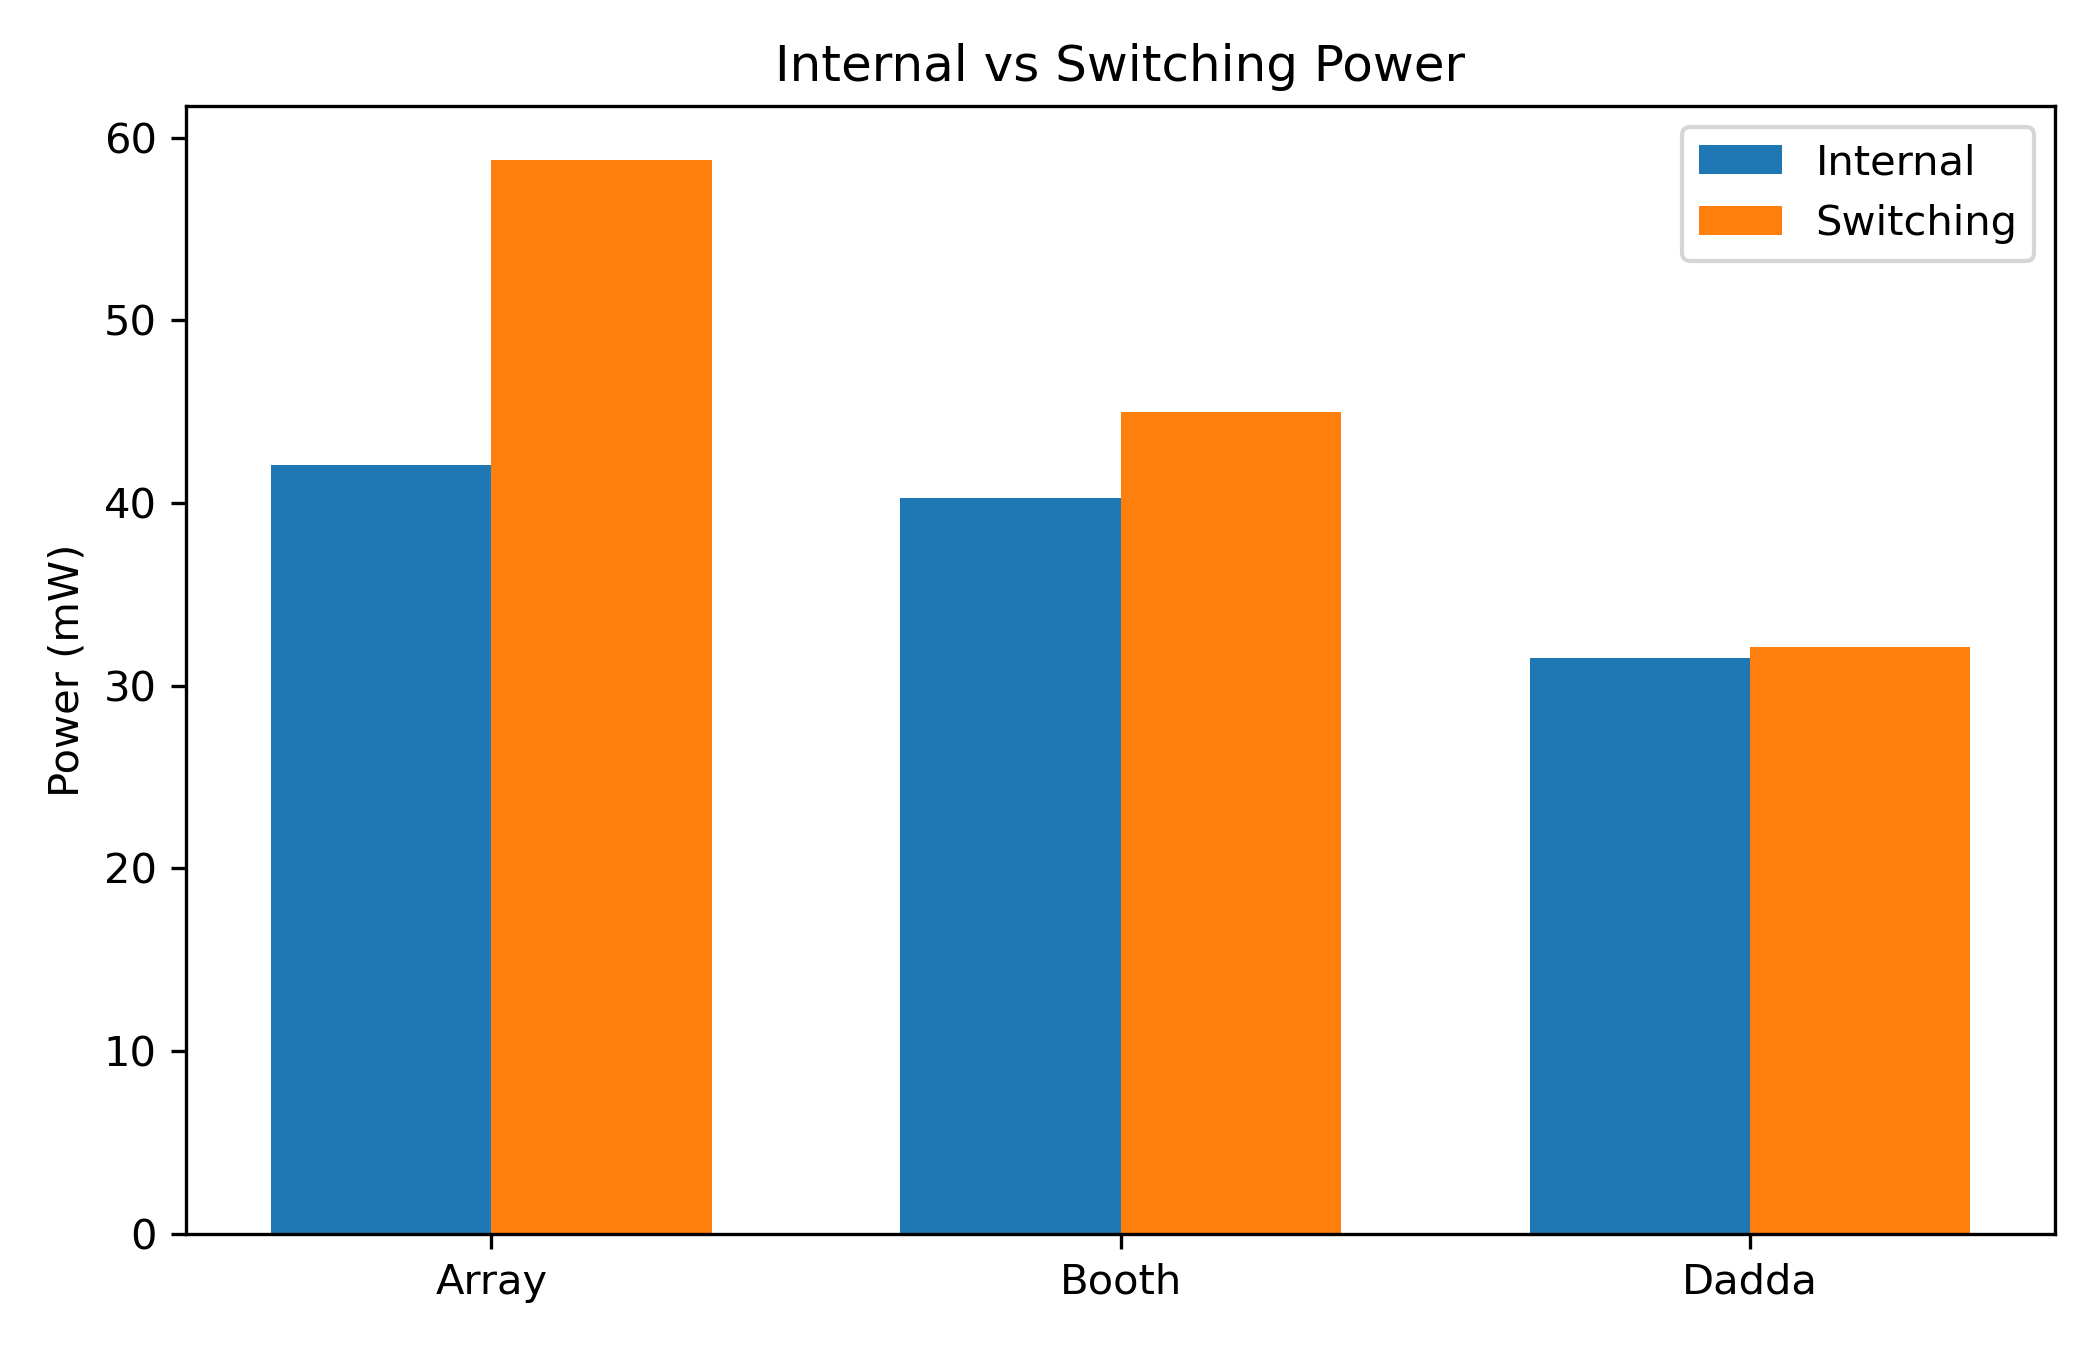
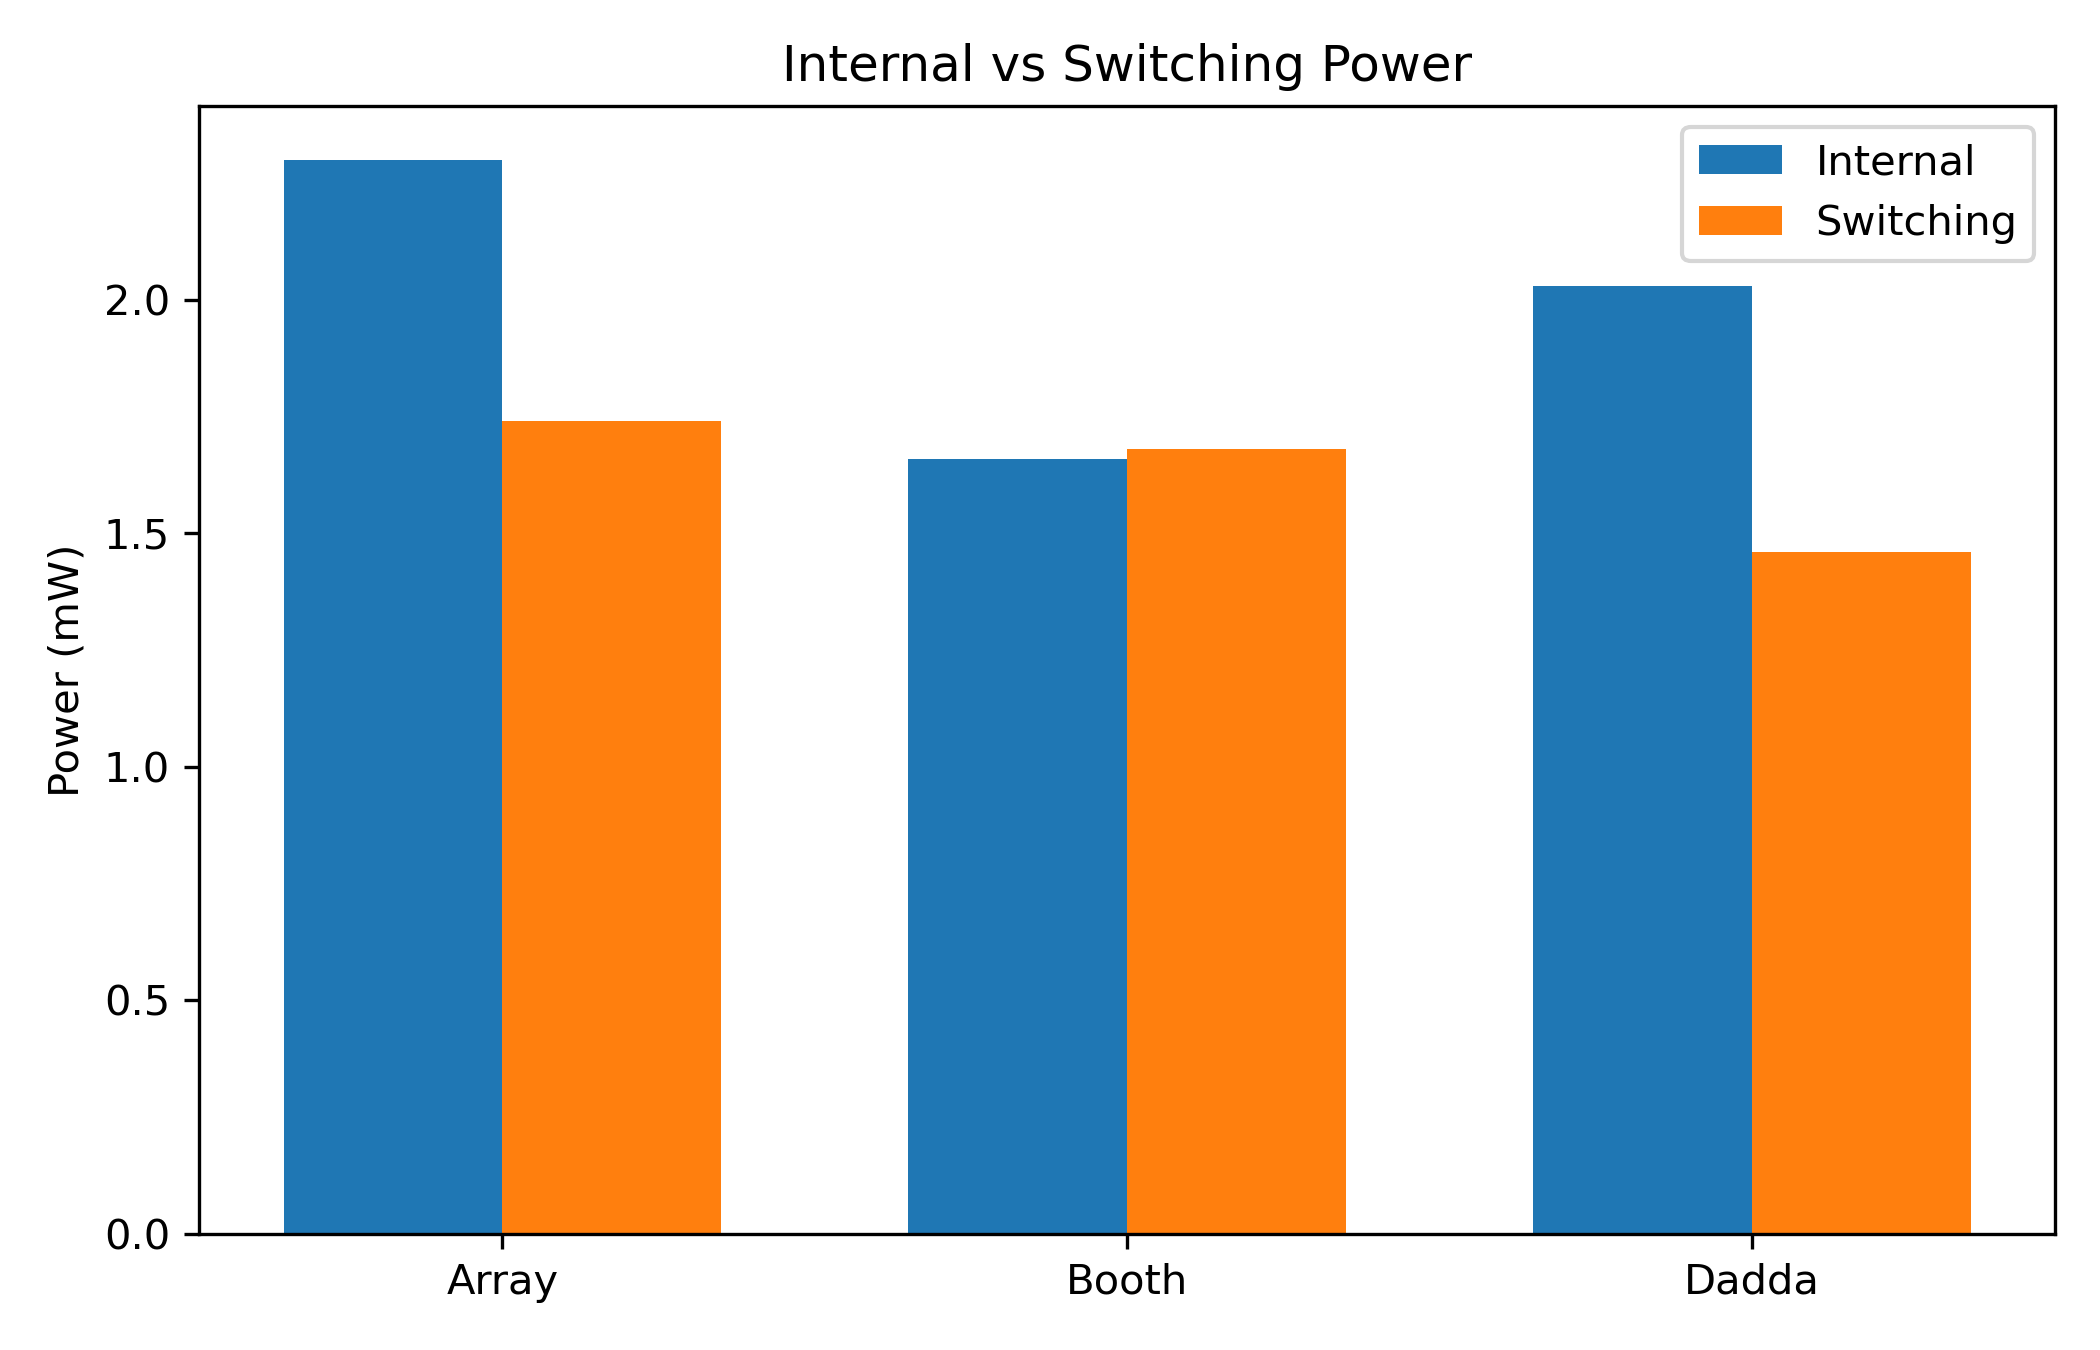
Regenerate power estimates from final mapped netlists

diff --git a/README.md b/README.md
@@ -1,46 +1,46 @@
 # 64-bit Multiplier Architecture Comparison
 
-This project compares three 64-bit multiplier architectures using an open-source ASIC-style evaluation flow:
+This repository compares three 64-bit multiplier architectures using an open-source ASIC-style flow:
 
 - Array multiplier
 - Radix-4 Booth multiplier
 - Dadda multiplier
 
-The goal is to compare area, timing, and power trade-offs across multiplier architectures using Verilog/SystemVerilog RTL, Yosys synthesis, SKY130 Liberty mapping, OpenSTA timing analysis, and activity-based power reporting.
+The goal is to compare architectural trade-offs in mapped area, cell count, timing, and post-synthesis power under the same SKY130-based evaluation flow.
 
 ## Final Evidence-Backed PPA Results
 
-| Architecture | Mapped Cells | Mapped Area | Critical Path Delay (ns) | Slack @ 10 ns (ns) | Total Power (mW) |
-|---|---:|---:|---:|---:|---:|
-| Array | 14,670 | 170,235.769600 | 89.8478 | -79.8478 | 101.0 |
-| Radix-4 Booth | 14,029 | 122,304.800000 | 62.6285 | -52.6285 | 85.3 |
-| Dadda | 12,744 | 149,170.566400 | 71.4395 | -61.4395 | 63.6 |
+| Architecture | Mapped Cells | Mapped Area | Critical Path Delay (ns) | Estimated Fmax (MHz) | Slack @ 10 ns (ns) | Total Power (mW) |
+|---|---:|---:|---:|---:|---:|---:|
+| Array | 14,670 | 170,235.769600 | 89.8478 | 11.13 | -79.8478 | 4.03 |
+| Radix-4 Booth | 14,029 | 122,304.800000 | 62.6285 | 15.97 | -52.6285 | 3.34 |
+| Dadda | 12,744 | 149,170.566400 | 71.4395 | 14.00 | -61.4395 | 3.49 |
 
-## Key Findings
+## Key Observations
 
-The Radix-4 Booth multiplier achieved the shortest reported critical path delay and the smallest mapped area among the three evaluated designs.
+- The Radix-4 Booth multiplier achieved the smallest mapped area, shortest critical path delay, highest estimated maximum frequency, and lowest regenerated post-synthesis power estimate.
+- The Dadda multiplier achieved the lowest mapped cell count.
+- The Array multiplier had the largest mapped area, longest critical path delay, and highest regenerated post-synthesis power estimate.
+- All three designs violate the 10 ns timing constraint in the current combinational implementation.
+- Power values are post-synthesis OpenROAD estimates generated from the final SKY130-mapped netlists using uniform global activity assumptions. They are not post-layout signoff power values.
 
-The Dadda multiplier achieved the lowest mapped cell count and lowest total power.
-
-The Array multiplier was the least efficient overall, showing the largest mapped area, longest critical path delay, and highest power.
-
-All three designs violate the 10 ns timing target in the current combinational implementation, so the timing results should be interpreted as comparative critical-path measurements rather than timing closure.
-
-## Evidence Files
+## Evidence Traceability
 
 | Metric | Array | Radix-4 Booth | Dadda |
 |---|---|---|---|
 | Area | `results/area/raw/array_area_raw.txt` | `results/area/raw/booth_area_raw.txt` | `results/area/raw/dadda_area_raw.txt` |
 | Timing | `results/timing/raw/array_sta_raw.txt` | `results/timing/raw/booth_sta_raw.txt` | `results/timing/raw/dadda_sta_raw.txt` |
 | Power | `results/power/array_power_report.txt` | `results/power/booth_power_report.txt` | `results/power/dadda_power_report.txt` |
+| Netlist | `results/netlists/array_sky130_netlist.v` | `results/netlists/booth_sky130_netlist.v` | `results/netlists/dadda_sky130_netlist.v` |
 
-## Methodology
+## Tool Flow
 
-Area was generated using Yosys + ABC with the SKY130 HD typical Liberty file. Mapped area is reported in Liberty library area units from `stat -liberty`.
-
-Timing was generated using OpenSTA on the SKY130-mapped Verilog netlists under a 10 ns virtual clock constraint.
-
-Power values are taken from raw power reports stored under `results/power/`.
+- RTL design: Verilog/SystemVerilog
+- Functional simulation: Icarus Verilog
+- Area synthesis: Yosys + ABC using SKY130 HD Liberty
+- Timing analysis: OpenSTA using SKY130-mapped netlists
+- Power estimation: OpenROAD using final SKY130-mapped netlists
+- Figures: Python/matplotlib
 
 ## Repository Structure
 
@@ -51,18 +51,16 @@ designs/
   dadda/
 
 results/
-  area/
-  netlists/
-  timing/
+  area/raw/
+  timing/raw/
   power/
-  verification/
-
-scripts/
-  ppa/
+  netlists/
+  final_comparison_table.md
 
 figures/
+scripts/
 Notes
 
 The designs/booth/rtl/ folder contains archived modular Booth RTL retained for reference. The final Booth implementation used for the reported comparison is designs/booth/design.sv.
 
-The reported numbers in this repository are backed by raw area, timing, and power evidence files.
+The reported power values are generated under a uniform activity assumption and should be interpreted comparatively, not as silicon signoff measurements.

diff --git a/results/final_comparison_table.md b/results/final_comparison_table.md
@@ -1,25 +1,15 @@
-# Final PPA Comparison Table
+# Final Evidence-Backed PPA Comparison
 
-This table reports the final evidence-backed PPA results generated using Yosys + ABC with the SKY130 HD typical Liberty file and OpenSTA timing analysis under a 10 ns virtual clock.
+| Architecture | Mapped Cells | Mapped Area | Critical Path Delay (ns) | Estimated Fmax (MHz) | Slack @ 10 ns (ns) | Total Power (mW) |
+|---|---:|---:|---:|---:|---:|---:|
+| Array | 14,670 | 170,235.769600 | 89.8478 | 11.13 | -79.8478 | 4.03 |
+| Radix-4 Booth | 14,029 | 122,304.800000 | 62.6285 | 15.97 | -52.6285 | 3.34 |
+| Dadda | 12,744 | 149,170.566400 | 71.4395 | 14.00 | -61.4395 | 3.49 |
 
-| Architecture | Mapped Cells | Mapped Area | Critical Path Delay (ns) | Slack @ 10 ns (ns) | Total Power (mW) |
-|---|---:|---:|---:|---:|---:|
-| Array | 14,670 | 170,235.769600 | 89.8478 | -79.8478 | 101.0 |
-| Radix-4 Booth | 14,029 | 122,304.800000 | 62.6285 | -52.6285 | 85.3 |
-| Dadda | 12,744 | 149,170.566400 | 71.4395 | -61.4395 | 63.6 |
+## Key Observations
 
-## Evidence Files
-
-| Metric | Array | Radix-4 Booth | Dadda |
-|---|---|---|---|
-| Area | results/area/raw/array_area_raw.txt | results/area/raw/booth_area_raw.txt | results/area/raw/dadda_area_raw.txt |
-| Timing | results/timing/raw/array_sta_raw.txt | results/timing/raw/booth_sta_raw.txt | results/timing/raw/dadda_sta_raw.txt |
-| Power | results/power/array_power_report.txt | results/power/booth_power_report.txt | results/power/dadda_power_report.txt |
-
-## Notes
-
-Mapped area is reported in Liberty library area units from Yosys `stat -liberty`.
-
-Timing delay corresponds to the data arrival time of the worst reported input-to-output path under a 10 ns virtual clock constraint.
-
-All three architectures violate the 10 ns timing constraint in the current combinational implementation. Among the evaluated designs, the Booth multiplier has the shortest reported critical path delay, while the Dadda multiplier has the lowest total power and lowest mapped cell count.
+- The Radix-4 Booth multiplier gives the lowest mapped area, shortest critical path delay, highest estimated maximum frequency, and lowest regenerated post-synthesis power estimate.
+- The Dadda multiplier gives the lowest mapped cell count.
+- The Array multiplier has the largest mapped area, longest critical path delay, and highest estimated power.
+- All three designs violate the 10 ns timing constraint in the current combinational implementation.
+- Power values are post-synthesis OpenROAD estimates using uniform global activity assumptions, not post-layout signoff power.

diff --git a/results/power/power_summary.md b/results/power/power_summary.md
@@ -1,17 +1,21 @@
-# OpenROAD Power Summary
+# Power Summary
 
-Power values are taken from the raw power reports in `results/power/`.
+Power was regenerated using OpenROAD from the final SKY130-mapped Verilog netlists stored under `results/netlists/`.
 
-| Architecture | Internal Power (W) | Switching Power (W) | Leakage Power (W) | Total Power (mW) |
+The power estimates use a uniform global activity assumption:
+
+- Activity factor: 0.10
+- Duty cycle: 0.50
+- Clock period: 10 ns
+- Input transition: 0.10 ns
+- Output load: 0.05 pF
+
+These values should be interpreted as post-synthesis power estimates, not post-layout signoff power, because placed-and-routed DEF parasitics were not used.
+
+| Architecture | Internal Power (mW) | Switching Power (mW) | Leakage Power (mW) | Total Power (mW) |
 |---|---:|---:|---:|---:|
-| Array | 4.21e-02 | 5.88e-02 | 1.25e-07 | 101.0 |
-| Radix-4 Booth | 4.03e-02 | 4.50e-02 | 8.36e-08 | 85.3 |
-| Dadda | 3.15e-02 | 3.21e-02 | 9.76e-08 | 63.6 |
+| Array | 2.30 | 1.74 | 0.0000835 | 4.03 |
+| Radix-4 Booth | 1.66 | 1.68 | 0.0000569 | 3.34 |
+| Dadda | 2.03 | 1.46 | 0.0000758 | 3.49 |
 
-## Raw Evidence
-
-| Architecture | Raw Power Report |
-|---|---|
-| Array | results/power/array_power_report.txt |
-| Radix-4 Booth | results/power/booth_power_report.txt |
-| Dadda | results/power/dadda_power_report.txt |
+Under the same activity assumptions, the Radix-4 Booth multiplier has the lowest estimated total power.